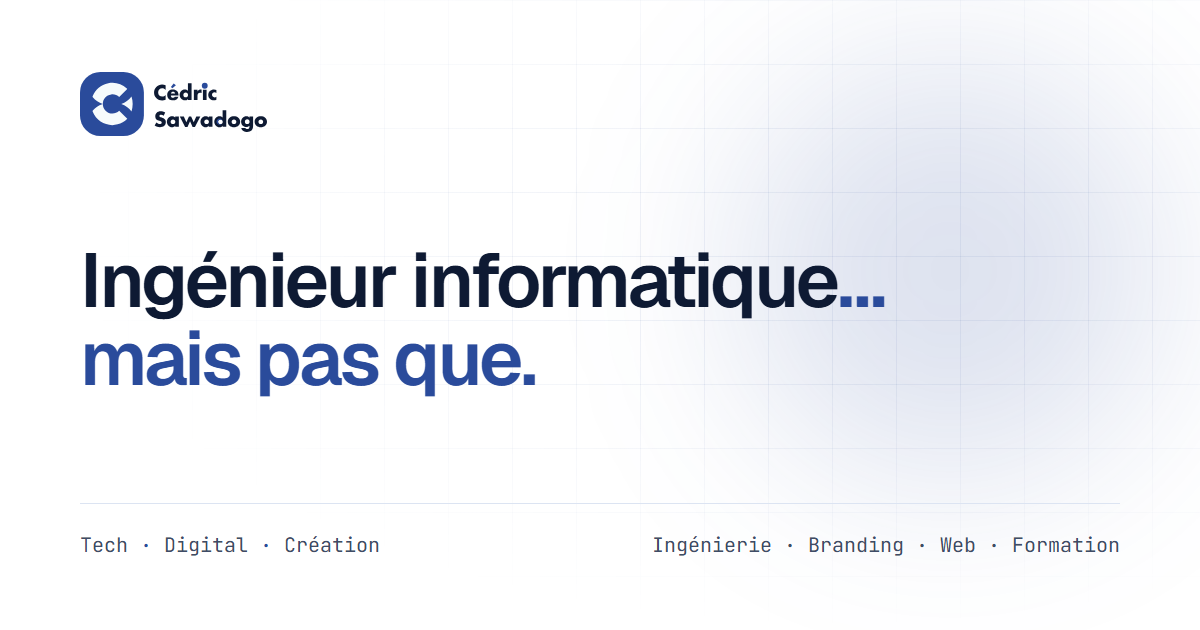
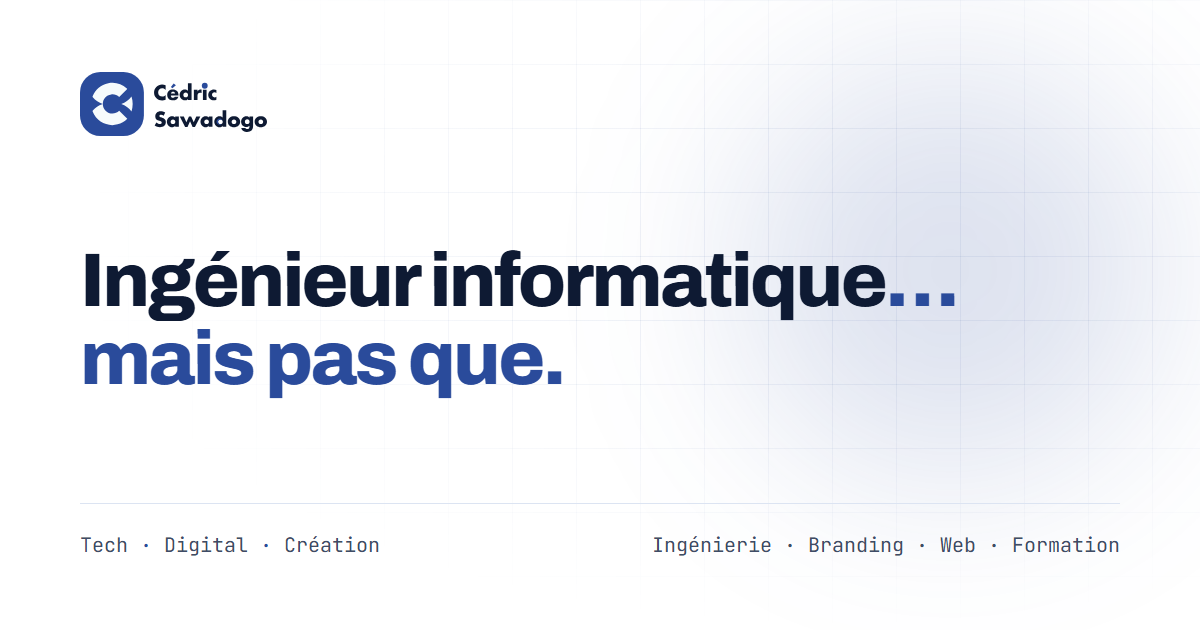
style: Archivo for headings, Geist for body text
- Headings in Archivo (800, hero name 900 with tighter tracking), like the reference site
- Body text stays in Geist; labels in JetBrains Mono
- Hero sizes re-measured for Archivo (no overflow from 320 to 1920px)
- Share image headline in Archivo

Changed region(s): [[0.0617, 0.3921, 0.8017, 0.6333]]

diff --git a/src/sections/Hero/Hero.tsx b/src/sections/Hero/Hero.tsx
@@ -46,19 +46,19 @@ export function Hero() {
           {/*
             Titre en trois lignes. Tailles en « cqi » (% de la largeur de la colonne, via @container) :
             chaque ligne s'adapte à la place disponible et ne passe jamais à la ligne.
-            Largeurs réelles mesurées en Geist : « Cédric Sawadogo, » ≈ 8,6 em ; « ingénieur informatique… » ≈ 11,2 em (marge de 3 %).
+            Largeurs réelles mesurées en Archivo : « Cédric Sawadogo, » ≈ 8,9 em ; « ingénieur informatique… » ≈ 12 em (marge de 3 %).
           */}
-          <h1 id="hero-title" className="@container mt-7 font-display font-semibold tracking-[-0.04em]">
+          <h1 id="hero-title" className="@container mt-7 font-display font-extrabold tracking-[-0.035em]">
             {/* Version lue par les lecteurs d'écran et les moteurs de recherche */}
             <span className="sr-only">
               {siteConfig.name}, ingénieur informatique… {siteConfig.heroRoles[0]} {siteConfig.heroRoles.slice(1).join(', ')}.
             </span>
 
-            <RiseText text={`${siteConfig.name},`} className="block text-[11.2cqi] leading-[1.08] whitespace-nowrap" />
+            <RiseText text={`${siteConfig.name},`} className="block text-[10.8cqi] leading-[1.02] font-black tracking-[-0.05em] whitespace-nowrap" />
 
             <span
               aria-hidden="true"
-              className="animate-enter mt-[0.15em] block text-[8.6cqi] leading-[1.15] whitespace-nowrap"
+              className="animate-enter mt-[0.15em] block text-[8cqi] leading-[1.15] whitespace-nowrap"
               style={enter(0.6)}
             >
               ingénieur informatique
@@ -68,7 +68,7 @@ export function Hero() {
             <span className="animate-enter block" style={enter(0.85)}>
               <TypeRotator
                 phrases={siteConfig.heroRoles}
-                className="text-[8.6cqi] leading-[1.15] whitespace-nowrap text-accent"
+                className="text-[8cqi] leading-[1.15] whitespace-nowrap text-accent"
               />
             </span>
           </h1>

diff --git a/src/pages/ProjectDetailPage.tsx b/src/pages/ProjectDetailPage.tsx
@@ -50,7 +50,7 @@ export default function ProjectDetailPage() {
               <span>{project.year}</span>
               <PlaceholderBadge show={project.placeholder} />
             </p>
-            <h1 className="mt-5 font-display text-4xl leading-[1.05] font-semibold tracking-tight text-balance sm:text-5xl lg:text-6xl">
+            <h1 className="mt-5 font-display text-4xl leading-[1.05] font-extrabold tracking-tight text-balance sm:text-5xl lg:text-6xl">
               {project.name}
             </h1>
             <p className="mt-6 max-w-2xl text-lg leading-relaxed text-muted">{project.summary}</p>
@@ -155,7 +155,7 @@ export default function ProjectDetailPage() {
           >
             <span>
               <span className="font-mono text-xs text-subtle">Projet suivant</span>
-              <span className="mt-2 block font-display text-2xl font-semibold tracking-tight transition-colors group-hover:text-accent-strong sm:text-3xl">
+              <span className="mt-2 block font-display text-2xl font-extrabold tracking-tight transition-colors group-hover:text-accent-strong sm:text-3xl">
                 {next.name}
               </span>
             </span>

diff --git a/src/pages/ArticlePage.tsx b/src/pages/ArticlePage.tsx
@@ -56,7 +56,7 @@ export default function ArticlePage() {
                 <span aria-hidden="true">·</span>
                 <span>{article.readingTime} min de lecture</span>
               </p>
-              <h1 className="mt-5 font-display text-4xl leading-[1.08] font-semibold tracking-tight text-balance sm:text-5xl">
+              <h1 className="mt-5 font-display text-4xl leading-[1.08] font-extrabold tracking-tight text-balance sm:text-5xl">
                 {article.title}
               </h1>
               <p className="mt-6 text-lg leading-relaxed text-muted">{article.description}</p>
@@ -88,7 +88,7 @@ export default function ArticlePage() {
       {related.length > 0 && (
         <section aria-labelledby="related-title" className="border-t border-line">
           <div className="container-page py-20">
-            <h2 id="related-title" className="font-display text-2xl font-semibold tracking-tight">
+            <h2 id="related-title" className="font-display text-2xl font-extrabold tracking-tight">
               À lire aussi
             </h2>
             <ul className="mt-10 grid gap-x-8 gap-y-14 md:grid-cols-2">

diff --git a/src/styles/global.css b/src/styles/global.css
@@ -104,9 +104,9 @@
   --color-brand-500: #2a4b9b;
 
   /* Typographies (chargées localement via Fontsource, voir main.tsx) */
-  /* Geist : une seule famille pour titres et texte, dans l'esprit d'Helvetica (style suisse). */
+  /* Geist pour le texte (esprit Helvetica) ; Archivo très gras pour les titres (style affiche). */
   --font-sans: 'Geist Variable', ui-sans-serif, system-ui, -apple-system, 'Helvetica Neue', Arial, sans-serif;
-  --font-display: var(--font-sans);
+  --font-display: 'Archivo Variable', 'Geist Variable', 'Arial Narrow', Arial, sans-serif;
   --font-mono: 'JetBrains Mono Variable', ui-monospace, SFMono-Regular, monospace;
 
   /* Rayon inspiré du carré arrondi du logo */
@@ -245,7 +245,7 @@
       color: var(--fg);
       font-family: var(--font-display);
       font-size: 1.75rem;
-      font-weight: 600;
+      font-weight: 800;
       line-height: 1.25;
       letter-spacing: -0.02em;
     }

diff --git a/scripts/og-image.html b/scripts/og-image.html
@@ -15,6 +15,11 @@
         font-weight: 100 900;
       }
       @font-face {
+        font-family: 'Archivo';
+        src: url('../node_modules/@fontsource-variable/archivo/files/archivo-latin-wght-normal.woff2') format('woff2');
+        font-weight: 100 900;
+      }
+      @font-face {
         font-family: 'JetBrains Mono';
         src: url('../node_modules/@fontsource-variable/jetbrains-mono/files/jetbrains-mono-latin-wght-normal.woff2') format('woff2');
         font-weight: 100 800;
@@ -69,11 +74,11 @@
       }
       h1 {
         margin: 0;
-        font-family: 'Geist', sans-serif;
-        font-weight: 600;
+        font-family: 'Archivo', sans-serif;
+        font-weight: 800;
         font-size: 76px;
         line-height: 1.02;
-        letter-spacing: -0.04em;
+        letter-spacing: -0.035em;
       }
       .dots {
         color: #2a4b9b;

diff --git a/src/sections/Contact/ContactForm.tsx b/src/sections/Contact/ContactForm.tsx
@@ -81,7 +81,7 @@ export function ContactForm({ initialSubject = '' }: ContactFormProps) {
     return (
       <div role="status" className="rounded-3xl border border-line bg-card/60 p-8 sm:p-10">
         <CheckCircle2 aria-hidden="true" className="size-8 text-success" />
-        <h2 className="mt-6 font-display text-2xl font-semibold tracking-tight">Message envoyé</h2>
+        <h2 className="mt-6 font-display text-2xl font-extrabold tracking-tight">Message envoyé</h2>
         <p className="mt-3 leading-relaxed text-muted">
           Merci {values.name.trim()}, votre message a bien été transmis. Une réponse vous sera adressée à{' '}
           <span className="text-fg">{values.email.trim()}</span>.

diff --git a/src/sections/About/Skills.tsx b/src/sections/About/Skills.tsx
@@ -17,7 +17,7 @@ export function Skills() {
           {skillGroups.map((group, i) => (
             <Reveal key={group.title} delay={i * 0.08}>
               <article className="flex h-full flex-col rounded-2xl border border-line bg-card/60 p-6 transition-colors duration-300 hover:border-accent/40 sm:p-8">
-                <h3 className="font-display text-xl font-semibold tracking-tight">{group.title}</h3>
+                <h3 className="font-display text-xl font-extrabold tracking-tight">{group.title}</h3>
                 <ul className="mt-6 space-y-3">
                   {group.items.map((item) => (
                     <li key={item} className="flex gap-3 text-sm text-muted">

diff --git a/src/sections/Hero/ExpertiseStrip.tsx b/src/sections/Hero/ExpertiseStrip.tsx
@@ -28,7 +28,7 @@ export function ExpertiseStrip() {
                     className="size-4 text-subtle transition-all duration-300 group-hover:translate-x-0.5 group-hover:-translate-y-0.5 group-hover:text-accent"
                   />
                 </div>
-                <h3 className="font-display text-xl font-semibold tracking-tight transition-colors group-hover:text-accent-strong">
+                <h3 className="font-display text-xl font-extrabold tracking-tight transition-colors group-hover:text-accent-strong">
                   {pole.title}
                 </h3>
                 <p className="text-sm leading-relaxed text-subtle">{pole.domains.join(' · ')}</p>

diff --git a/src/components/shared/CtaBand.tsx b/src/components/shared/CtaBand.tsx
@@ -14,7 +14,7 @@ export function CtaBand({ title, text, hideProjectsLink = false }: CtaBandProps)
     <section className="band border-t border-line">
       <Reveal className="container-page flex flex-col gap-8 py-20 md:flex-row md:items-end md:justify-between md:py-24">
         <div className="max-w-2xl">
-          <h2 className="font-display text-3xl leading-tight font-semibold tracking-tight text-balance sm:text-4xl">
+          <h2 className="font-display text-3xl leading-tight font-extrabold tracking-tight text-balance sm:text-4xl">
             {title}
           </h2>
           {text && <p className="mt-4 text-muted">{text}</p>}

diff --git a/src/sections/Services/ServiceDetail.tsx b/src/sections/Services/ServiceDetail.tsx
@@ -28,7 +28,7 @@ export function ServiceDetail({ service, index }: ServiceDetailProps) {
             </span>
             <span className="font-mono text-xs text-subtle">{String(index + 1).padStart(2, '0')} / 06</span>
           </div>
-          <h2 id={headingId} className="mt-6 font-display text-2xl leading-tight font-semibold tracking-tight sm:text-3xl">
+          <h2 id={headingId} className="mt-6 font-display text-2xl leading-tight font-extrabold tracking-tight sm:text-3xl">
             {service.title}
           </h2>
           <PlaceholderBadge show={service.placeholder} className="mt-4" />

diff --git a/src/components/shared/PagePlaceholder.tsx b/src/components/shared/PagePlaceholder.tsx
@@ -12,7 +12,7 @@ export function PagePlaceholder({ index, title, phase }: PagePlaceholderProps) {
     <section className="container-page pt-32 pb-24 md:pt-40">
       <Seo title={title} />
       <p className="font-mono text-sm text-accent">{index}</p>
-      <h1 className="mt-3 font-display text-4xl font-semibold tracking-tight sm:text-6xl">{title}</h1>
+      <h1 className="mt-3 font-display text-4xl font-extrabold tracking-tight sm:text-6xl">{title}</h1>
       <p className="mt-6 max-w-prose text-muted">
         Page en construction — contenu prévu en {phase}.
       </p>

diff --git a/src/pages/ErrorPage.tsx b/src/pages/ErrorPage.tsx
@@ -18,7 +18,7 @@ export default function ErrorPage() {
     <main className="container-page pt-36 pb-32 md:pt-44">
       <Seo title="Erreur" />
       <p className="font-mono text-sm text-accent">Erreur inattendue</p>
-      <h1 className="mt-3 font-display text-4xl font-semibold tracking-tight sm:text-6xl">
+      <h1 className="mt-3 font-display text-4xl font-extrabold tracking-tight sm:text-6xl">
         Quelque chose s'est mal passé.
       </h1>
       <p className="mt-6 max-w-prose text-muted">Recharge la page ou reviens à l'accueil.</p>
